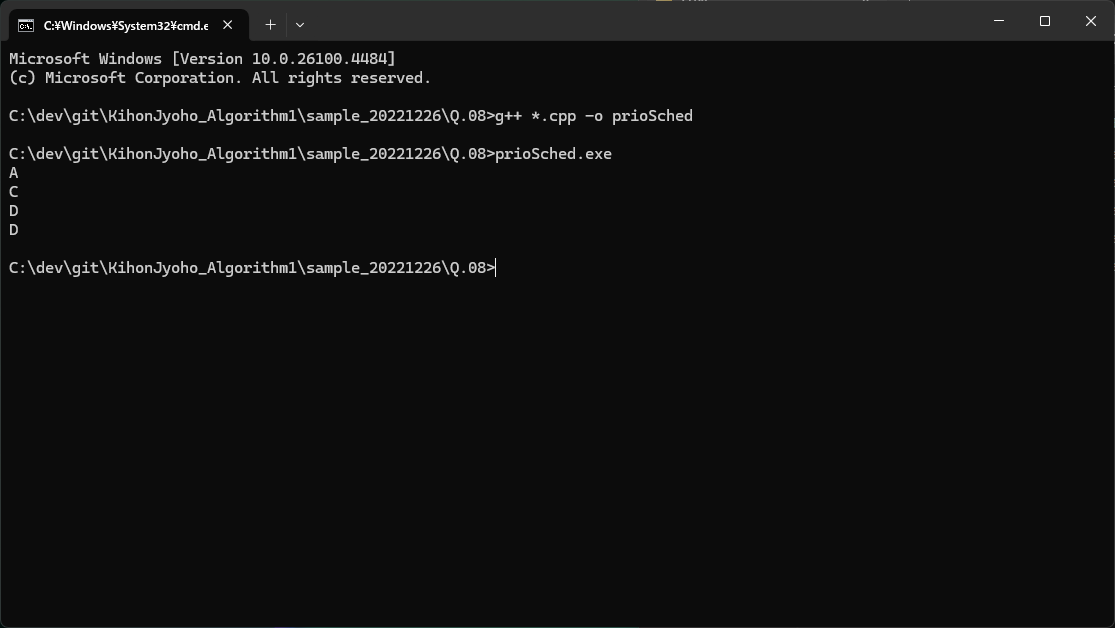
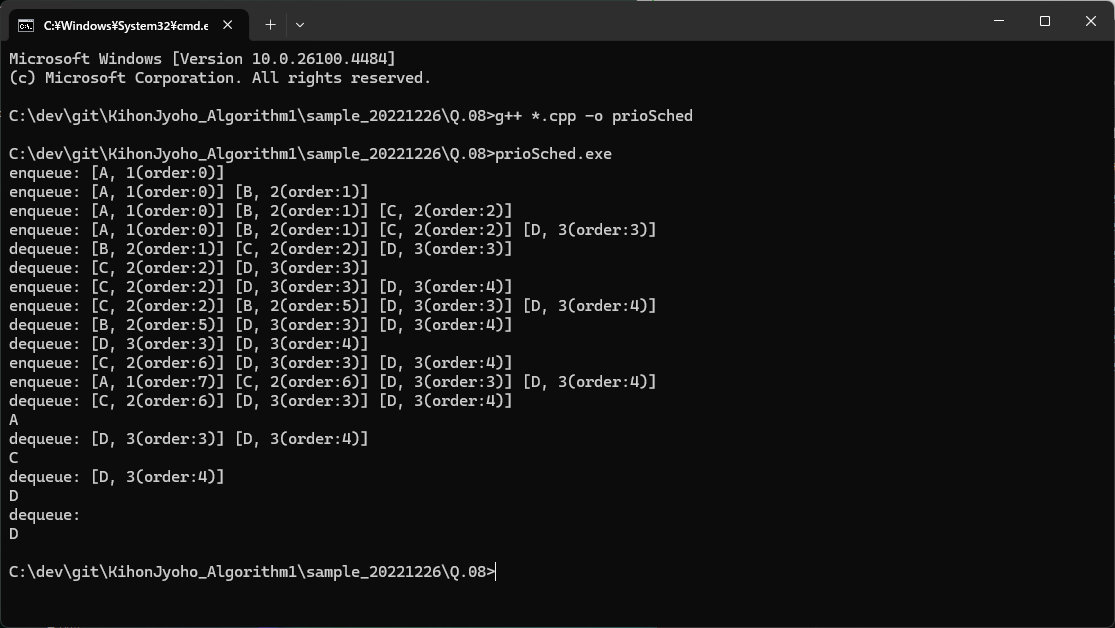
Q8 問題の優先度仕様に準拠し、入庫順判定定義追加

diff --git a/sample_20221226/Q.08/PrioQueue.cpp b/sample_20221226/Q.08/PrioQueue.cpp
@@ -1,5 +1,7 @@
 #include "PrioQueue.h"
 #include <string>
+#include <iostream>
+#include <queue>
 
 using namespace std;
 
@@ -8,17 +10,28 @@ PrioQueue::PrioQueue() {
 }
 
 void PrioQueue::enqueue(string s, int prio) {
-  // Default is Descending, use '-' to invert!
-  // (High) -1 > -2 > -3 > -4 (Low)
-  pq_.emplace(-prio, s);
+  pq_.push(OrderedQueueData{prio, order_++, s});
+  cout << "enqueue: "; printQueue();
 }
 
 string PrioQueue::dequeue() {
-  string s = pq_.top().second;
+  string val = pq_.top().value;
   pq_.pop();
-  return s;
+  cout << "dequeue: "; printQueue();
+  return val;
 }
 
 int PrioQueue::size() {
   return static_cast<int>(pq_.size());
+}
+
+// For debug
+void PrioQueue::printQueue() {
+  priority_queue<OrderedQueueData> copy = pq_;
+  while (!copy.empty()) {
+    OrderedQueueData item = copy.top();
+    std::cout << "[" << item.value << ", " << item.prio << "(order:" << item.order << ")] ";
+    copy.pop();
+  }
+  cout << endl;
 }

diff --git a/sample_20221226/Q.08/PrioQueue.h b/sample_20221226/Q.08/PrioQueue.h
@@ -5,9 +5,26 @@
 #include <utility>
 #include <string>
 
+struct OrderedQueueData {
+  int prio;
+  int order;
+  std::string value;
+
+  // Default descending to ascending!
+  bool operator<(const OrderedQueueData& other) const {
+    if (prio != other.prio) {
+      return prio > other.prio;
+    }
+    return order > other.order;
+  }
+};
+
 class PrioQueue {
   private:
-    std::priority_queue<std::pair<int, std::string>> pq_;
+    std::priority_queue<OrderedQueueData> pq_;
+    int order_ = 0;
+
+    void printQueue(); // For debug
 
   public:
     PrioQueue();
